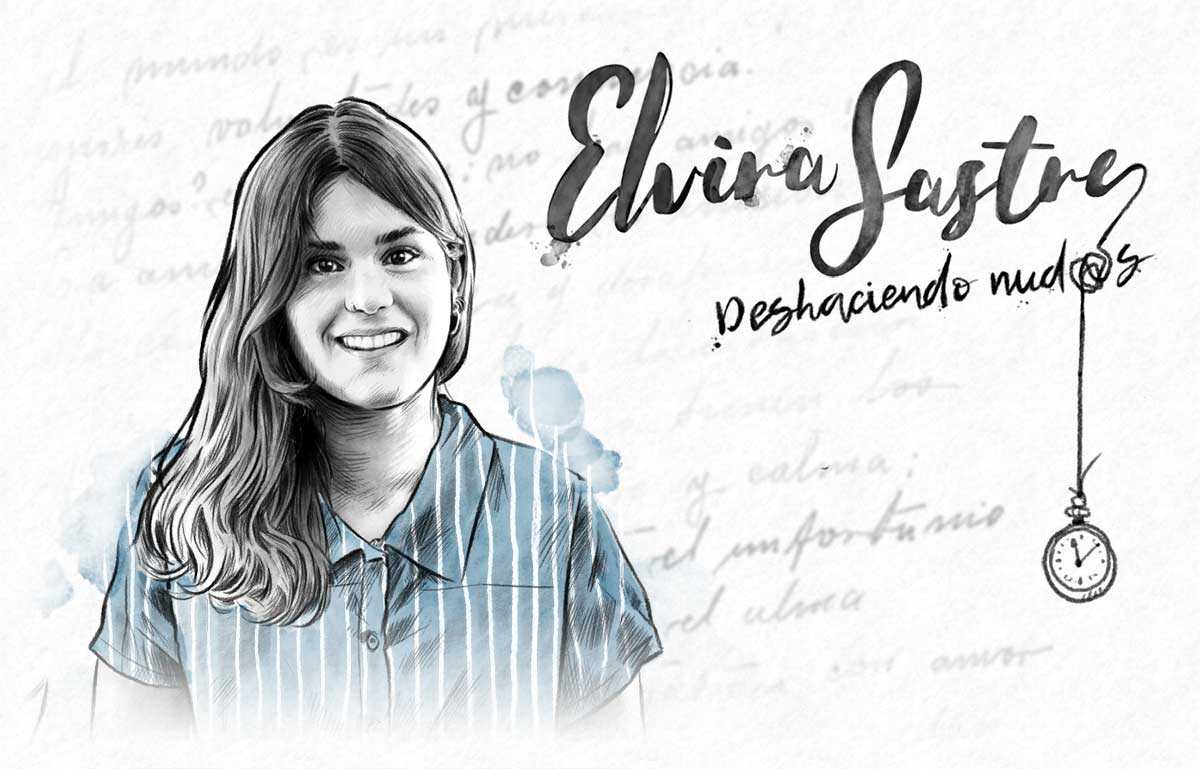
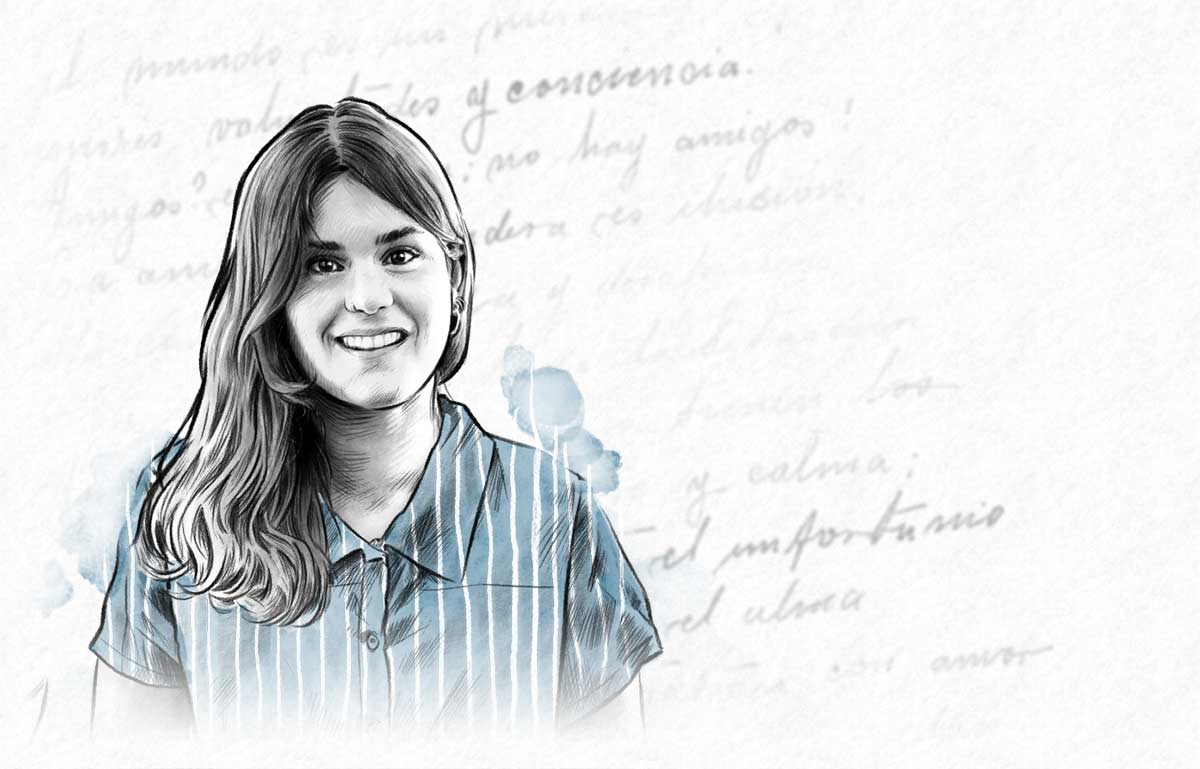
imagens con parrallax

Changed region(s): [[0.4317, 0.0624, 0.9558, 0.7802]]

diff --git a/sass/styles.scss b/sass/styles.scss
@@ -230,14 +230,14 @@ iframe { border: none; }
     @include transform(translateY(100%)); opacity: 0; 
   .pageReady & { @include transition(all 0.8s); }
   &.act { @include transform(translateY(0)); opacity: 1; }
-  .wrap { max-width: 1200px; height: 100%; padding-top: 2em; position: absolute; padding-top: 150px; overflow: hidden; padding-bottom: 55px;
+  .wrap { max-width: 1200px; height: 100%; padding-top: 2em; position: absolute; padding-top: 150px; overflow: hidden;
       top: 0; width: 100%; margin: 0 auto; @include box-sizing(border-box); display: block; left: 0; right: 0; }
 
   .player { float: left; height: 100%; width: 300px; }
 
-  .col-player, .col-poemas, .col-help { float: left; width: 30%; height: 100%; @include box-sizing(border-box); }
+  .col-player, .col-poemas, .col-help { float: left; width: 35%; height: 100%; @include box-sizing(border-box); }
   .col-poemas { width: 40%; position: relative; }
-  .col-player { max-width: 400px; }
+  .col-player { max-width: 500px; }
 
   // .col-poemas { overflow: auto; }
   @media (min-width: 800px) {
@@ -253,17 +253,25 @@ iframe { border: none; }
       background: url(./img/bar-white.png) bottom left no-repeat; }
   }
 
-  .bl-playlist { position: fixed; bottom: 0; width: 100%; left: 0; background: white; z-index: 1; overflow: hidden; height: 55px;
-      ul { width: 20000px; padding: 0.4em 2em;  }
-      li { display: inline-block; margin: 0 1em;
-        a { text-decoration: none; color: #333; font-weight: 100; font-size: 1.1em; line-height: 3em; padding: 0 1em; @include transition(none);
-          &.act { font-weight: 900; font-size: 1.3em; line-height: 2.4em; }
-        }
-      }
-    #playlist-before, #playlist-after { height: 35px; width: 35px; display: block; background: url(./img/atnls-sprite.png) -19px -117px no-repeat; }
-    #playlist-after { background-position: -58px -117px; }
-    .mTSButton { height: 35px; width: 35px; padding: 0.6em; background: rgba(255,255,255,0.8); }
-    .mTSButtonIconContainer { display: block; position: relative; width: 100%; height: 100%; overflow: hidden; padding: 0; left: 0; top: 0; }
+  // .bl-playlist { position: fixed; bottom: 0; width: 100%; left: 0; background: white; z-index: 1; overflow: hidden; height: 55px;
+  //     ul { width: 20000px; padding: 0.4em 2em;  }
+  //     li { display: inline-block; margin: 0 1em;
+  //       a { text-decoration: none; color: #333; font-weight: 100; font-size: 1.1em; line-height: 3em; padding: 0 1em; @include transition(none);
+  //         &.act { font-weight: 900; font-size: 1.3em; line-height: 2.4em; }
+  //       }
+  //     }
+  //   #playlist-before, #playlist-after { height: 35px; width: 35px; display: block; background: url(./img/atnls-sprite.png) -19px -117px no-repeat; }
+  //   #playlist-after { background-position: -58px -117px; }
+  //   .mTSButton { height: 35px; width: 35px; padding: 0.6em; background: rgba(255,255,255,0.8); }
+  //   .mTSButtonIconContainer { display: block; position: relative; width: 100%; height: 100%; overflow: hidden; padding: 0; left: 0; top: 0; }
+  // }
+
+  .bl-playlist { @include cutie; line-height: 1.6em; font-size: 1.2em;
+    a { text-decoration: none; color: white; display: block; position: relative; margin-bottom: 1.2em;
+      &:before { content: ''; display: block; width: 0; height: 20px; position: absolute; bottom: -0.8em; left: 0; @include transition(all 1s);
+      background: url(./img/bar-white.png) bottom left no-repeat; }
+      &:hover:before, &.act:before { width: 100%; }
+    }
   }
 
   #helpRight { position: absolute; top: 50%; vertical-align: top; font-weight: 900; font-size: 1.2em; text-align: right; right: 0; line-height: 1.2em;
@@ -290,7 +298,7 @@ iframe { border: none; }
   .plyr-pause, .plyr-pause2 { background-position: -66px -186px; }
   .plyr-list, .plyr-pause2 { background-position: -177px -186px; }
 
-  .bl-timer, .bl-timer2 { width: 100%; height: 10px; border: 1px solid white; position: relative; margin: 1em 0; }
+  .bl-timer, .bl-timer2 { width: 100%; height: 10px; border: 1px solid white; position: relative; margin: 0.4em 0 2em 0; }
     .bl-timer-time { background: url(./img/atnls-sprite.png) 0 20px; height: 100%; width: 0; }
 
   .plyr-mute2 { background-position: -66px -186px; }
@@ -384,7 +392,7 @@ iframe { border: none; }
     &:before { content: ''; display: block; position: absolute; bottom: 1.2em; right: 1.6em; background: url(./img/play-button-big.png); width: 80px; height: 80px; opacity: 0.5; @include transition(all 1s); }
     &:hover:before { opacity: 1; }
 
-    .imgTXT { position: absolute; top: 0; left: 0; width: 100%; @include transition(all 1s); @include transform(scale(0.95)); }
+    .imgTXT { position: absolute; top: 0; left: 0; width: 100%; @include transition(all .1s); @include transition(all 1s); @include transform(scale(0.95)); }
   }
   &.act .poeta-col-l img { @include transform(scale(1)); opacity: 1; }
   

diff --git a/js/base.js b/js/base.js
@@ -157,11 +157,19 @@ var atnls = {
     
 
     $('.share-poema-twitter').click(function(){
-
+      var act = $('#poemas .bl-playlist .act');
+      if(act.length) {
+        atnls.openTweet('La voz de Luis García Montero: ' + act.html());
+      } else {
+        atnls.openTweet('La voz de Luis García Montero: selección de poemas leídos por el autor');
+      }
+      
     });
 
     $('.share-poema-facebook').click(function(){
-
+      var target = $(this).data(target);
+      target = target ? target : window.location.href;
+      atnls.openFacebook(window.location.href);
     });
   },
 
@@ -479,8 +487,6 @@ var atnls = {
     $('.showPresentacion').click(function(){
 
       $('#player').fadeIn(400);
-
-      atnls.player.pause();
     
       labTools.media.generaVideo($('#player .vrap'), 'http://video.lab.rtve.es/resources/TE_NGVA/mp4/2013/jfk/intro-Kennedy', {
         title: 'Presentación de Luis García Montero',
@@ -488,6 +494,8 @@ var atnls = {
         muted: false,
         autoplay: true
       });
+
+      return false;
     });
 
     $('.poeta-col-l a').on('mousemove', atnls.thrtleMove);
@@ -500,13 +508,13 @@ var atnls = {
 
     atnls.thrtleMoveSemaforo = setTimeout(function(){
       atnls.thrtleMoveSemaforo = false;
-    }, 100);
+    }, 500);
 
     var $this = $(this);
     var w = $this.width();
     var h = $this.height();
-    var pleft = 100 - (e.offsetX * 100 / w);
-    var ptop = 100 - (e.offsetY * 100 / h);
+    var pleft = (e.offsetX * 100 / w);
+    var ptop = (e.offsetY * 100 / h);
     
     $this.find('.imgTXT').css({
       '-moz-transform-origin': pleft + '% ' + ptop + '% ',
@@ -711,6 +719,26 @@ var atnls = {
     window.open(target, 'intent', windowOptions + ',width=' + width +
                                        ',height=' + height + ',left=' + left + ',top=' + top);
   },
+  openFacebook: function(url) {
+
+    var windowOptions = 'scrollbars=yes,resizable=yes,toolbar=no,location=yes',
+        width = 550,
+        height = 420,
+        winHeight = screen.height,
+        winWidth = screen.width;
+
+    var left = Math.round((winWidth / 2) - (width / 2));
+    var top = 0;
+
+    if (winHeight > height) {
+      top = Math.round((winHeight / 2) - (height / 2));
+    }
+
+    var target = 'https://www.facebook.com/sharer/sharer.php?app_id=435567026494540&u=' + url
+    window.open(target, 'intent', windowOptions + ',width=' + width +
+                                       ',height=' + height + ',left=' + left + ',top=' + top);
+
+  },
 
   initPlayer: function() {
     $('#miniplayer, .col-player')
@@ -721,16 +749,16 @@ var atnls = {
       .find('.bl-timer').click(atnls.player.timeChange);
     $('.showPoemas').click(atnls.player.showPoemas);
     
-    $('.bl-playlist').mThumbnailScroller({
-      axis: 'x', //change to "y" for vertical scroller
-      type: 'click-50',
-      markup:{
-        buttonsHTML:{
-          left: '<span id="playlist-before"></aspan>',
-          right: '<span id="playlist-after"></span>'
-        },
-      },
-    });
+    // $('.bl-playlist').mThumbnailScroller({
+    //   axis: 'x', //change to "y" for vertical scroller
+    //   type: 'click-50',
+    //   markup:{
+    //     buttonsHTML:{
+    //       left: '<span id="playlist-before"></aspan>',
+    //       right: '<span id="playlist-after"></span>'
+    //     },
+    //   },
+    // });
 
   },
 
